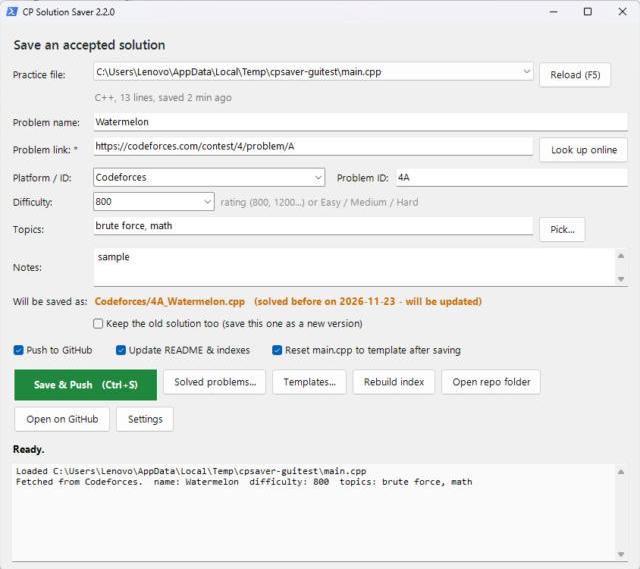
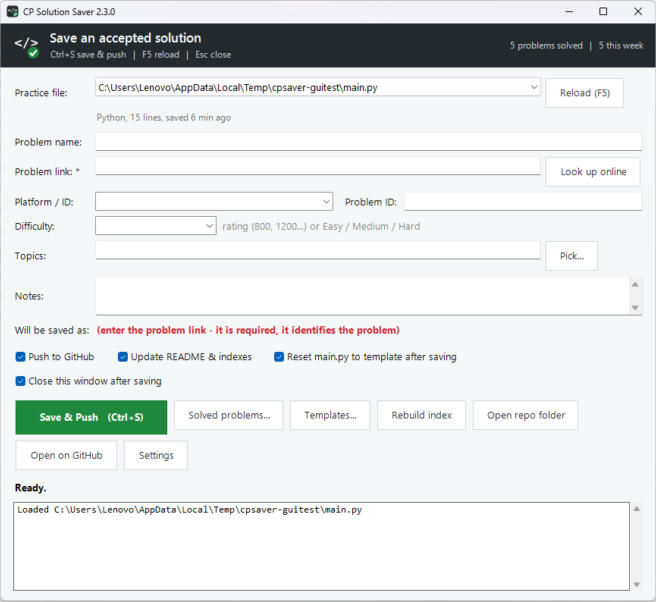
Solved problems: search box takes the spare width; launcher 'exit' does nothing when not running; new screenshots
Claude-Session: https://claude.ai/code/session_01VuVS3fUFzcfWDNaXPnFiMG

diff --git a/src/native/CPSaverLauncher.cs b/src/native/CPSaverLauncher.cs
@@ -43,6 +43,8 @@ namespace CPSaverNative
                     if (EventWaitHandle.TryOpenExisting(prefix + "_cmd_open", out ev)) { ev.Dispose(); return 0; }
                 }
 
+                if (cmd == "exit") return 0;   // nothing is running: nothing to close
+
                 string script = Path.Combine(dir, "CPSaver.ps1");
                 string ps = Path.Combine(Environment.GetFolderPath(Environment.SpecialFolder.System), @"WindowsPowerShell\v1.0\powershell.exe");
                 var psi = new ProcessStartInfo(ps,
